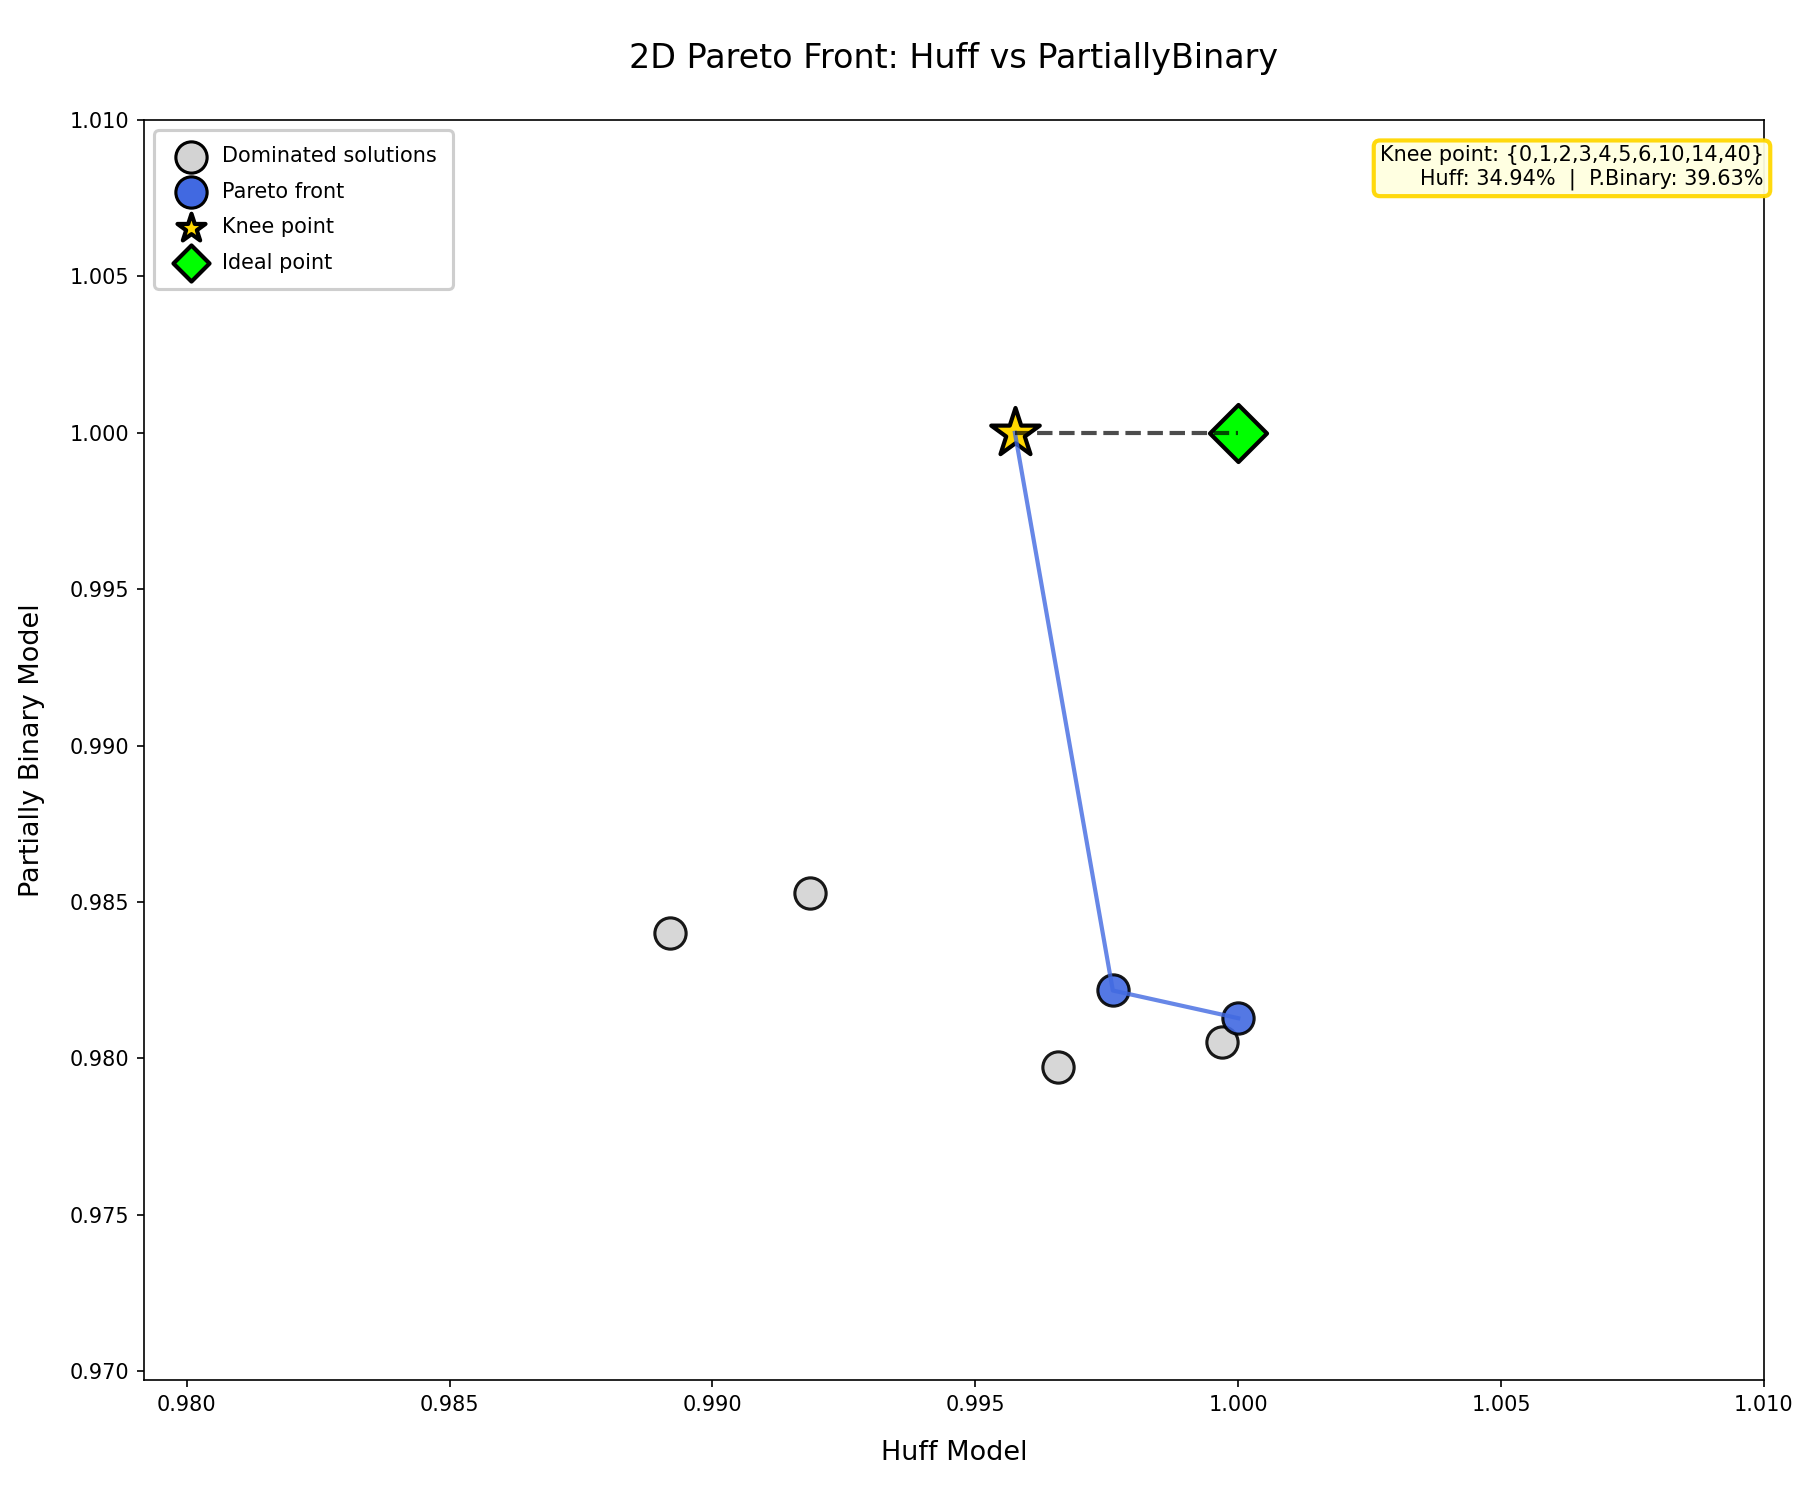
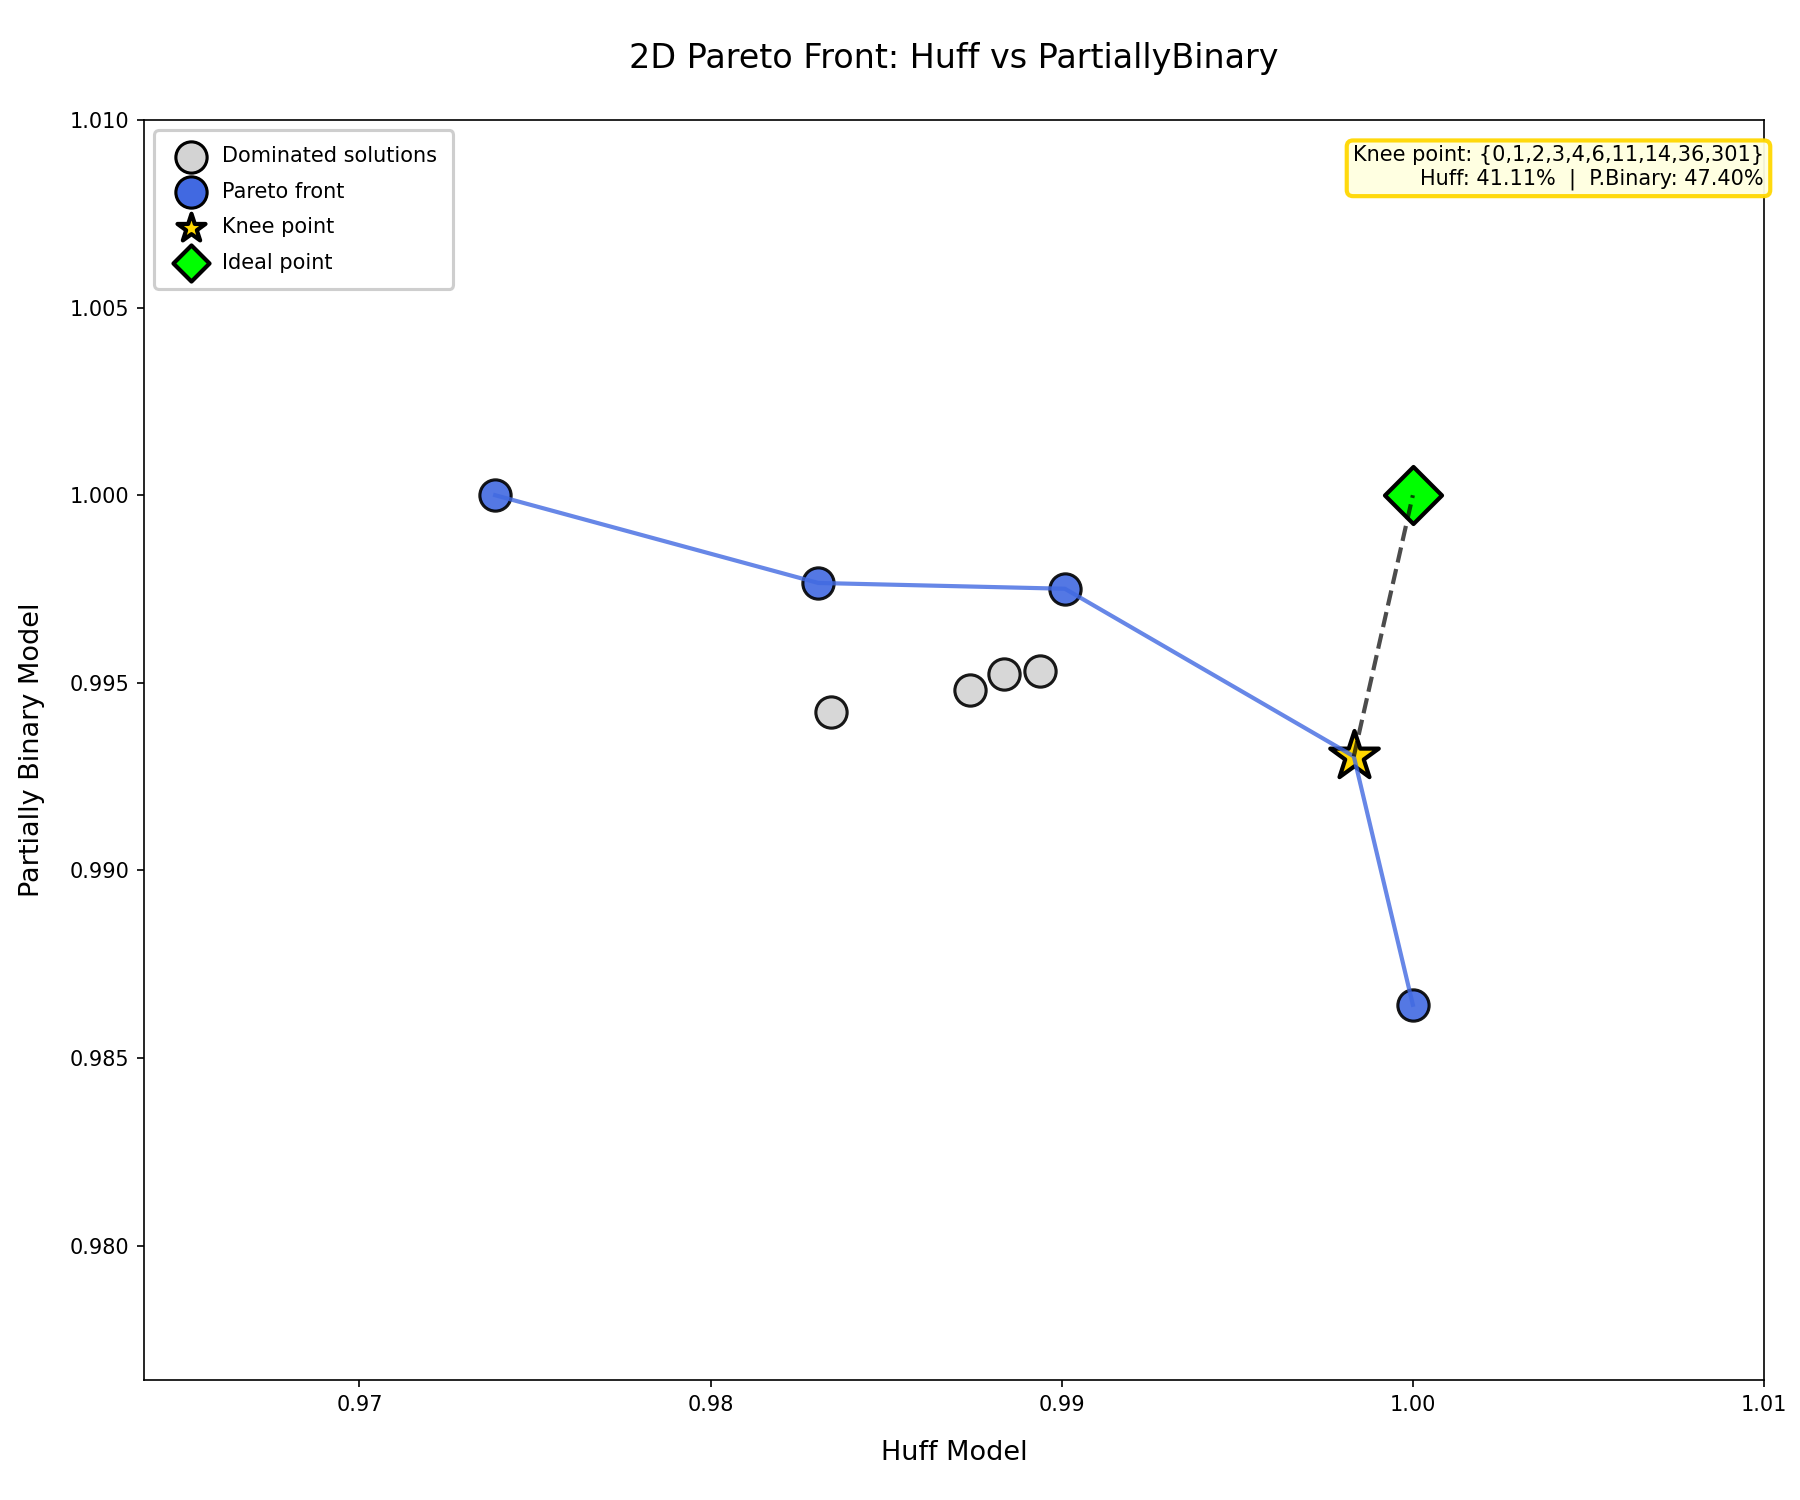
More analytics updates.

diff --git a/analysis/analyze_metrics.py b/analysis/analyze_metrics.py
@@ -115,6 +115,14 @@ def std_dev(values):
     return math.sqrt(sum((v - m) ** 2 for v in values) / (len(values) - 1))
 
 
+def smart_round(val, precision=6):
+    if abs(val) < 1e-6:
+        return 0.0
+    if abs(val - 1.0) < 1e-6:
+        return 1.0
+    return round(val, precision)
+
+
 def coefficient_of_variation(runs):
     objectives_per_run = []
     for r in runs:
@@ -168,7 +176,7 @@ def optimality_gap(runs, facilities):
                     f_robust = obj[dim]
                     f_best = best[dim]
                     if f_robust != 0:
-                        gaps.append((f_robust - f_best) / f_robust * 100)
+                        gaps.append(abs((f_robust - f_best) / f_robust * 100))
 
     return mean(gaps) if gaps else 0.0
 
@@ -239,11 +247,11 @@ def main():
         rows.append({
             "max_facilities": fac,
             "iterations": it,
-            "solution_stability": round(solution_stability(valid_runs), 6) + 0.0,
-            "hypervolume": round(hv, 6) + 0.0,
-            "price_of_robustness": round(price_of_robustness(valid_runs, fac), 6) + 0.0,
-            "optimality_gap": round(optimality_gap(valid_runs, fac), 6) + 0.0,
-            "coefficient_of_variation": round(coefficient_of_variation(valid_runs), 6) + 0.0,
+            "solution_stability": smart_round(solution_stability(valid_runs)),
+            "hypervolume": smart_round(hv),
+            "price_of_robustness": smart_round(price_of_robustness(valid_runs, fac)),
+            "optimality_gap": smart_round(optimality_gap(valid_runs, fac)),
+            "coefficient_of_variation": smart_round(coefficient_of_variation(valid_runs)),
         })
 
     fieldnames = [

diff --git a/analysis/visualise_2d.py b/analysis/visualise_2d.py
@@ -53,10 +53,12 @@ def find_pareto_front(objectives: np.ndarray) -> np.ndarray:
                 is_dominated[i] = True
                 break
     pareto = np.where(~is_dominated)[0]
-    if len(pareto) < 2:
+    # Ensure we have enough points to show at least 2 blue points 
+    # after excluding knee and ideal points.
+    if len(pareto) < 4:
         sorted_by_huff = np.argsort(objectives[:, 0])[::-1]
-        pareto = sorted_by_huff[:2]
-    return pareto
+        pareto = np.unique(np.concatenate([pareto, sorted_by_huff[:4]]))
+    return np.sort(pareto)
 
 
 def find_knee_point(objectives: np.ndarray) -> int:
@@ -79,6 +81,7 @@ def visualize(filepath: str, output_path: Optional[str] = None):
     knee_idx = find_knee_point(pareto_objectives)
     knee_global_idx = pareto_indices[knee_idx]
     knee_coords = normalized[knee_global_idx]
+    ideal_coords = np.array([1.0, 1.0])
 
     if len(dominated_indices) > 4:
         distances = [(idx, np.min(np.linalg.norm(pareto_objectives - normalized[idx], axis=1))) for idx in dominated_indices]
@@ -87,8 +90,8 @@ def visualize(filepath: str, output_path: Optional[str] = None):
     else:
         selected_dominated = dominated_indices[:4]
 
-    other_mask = np.ones(len(pareto_indices), dtype=bool)
-    other_mask[knee_idx] = False
+    # Keep points that are NOT at the same location as the knee point AND NOT at the same location as the ideal point
+    other_mask = np.any(pareto_objectives != knee_coords, axis=1) & np.any(pareto_objectives != ideal_coords, axis=1)
     other_pareto_indices = np.where(other_mask)[0]
     if len(other_pareto_indices) > 4:
         other_pareto_indices = other_pareto_indices[::2]

diff --git a/analysis/visualise_pareto.py b/analysis/visualise_pareto.py
@@ -211,7 +211,7 @@ def visualize(filepath: str, output_path: Optional[str] = None):
     padding = (data_max - data_min) * 0.15
     min_coords, max_coords = data_min - padding, data_max + padding
     
-    ax.set_xlim(max_coords[0], min_coords[0])
+    ax.set_xlim(min_coords[0], max_coords[0])
     ax.set_ylim(min_coords[1], max_coords[1])
     ax.set_zlim(min_coords[2], max_coords[2])
     
@@ -315,12 +315,9 @@ def visualize(filepath: str, output_path: Optional[str] = None):
                       bbox_to_anchor=(0.0, 0.98), labelspacing=0.75, handletextpad=0.5, borderpad=0.75)
     legend.get_frame().set_linewidth(1.5)
     
-    extreme_locations = [solutions[pareto_indices[i]].locations for i in extreme_indices]
     knee_sol = solutions[knee_global_idx]
-    extreme_lines = '\n'.join([f'  {{{loc}}}' for loc in extreme_locations])
     info_text = (f'Knee point: {{{knee_sol.locations}}}\n'
-                f'Huff: {knee_sol.huff_model:.2f}%  |  P.Binary: {knee_sol.partially_binary:.2f}%  |  P.Huff: {knee_sol.pareto_huff:.2f}%\n'
-                f'Extreme solutions:\n{extreme_lines}')
+                 f'Huff: {knee_sol.huff_model:.2f}%  |  P.Binary: {knee_sol.partially_binary:.2f}%  |  P.Huff: {knee_sol.pareto_huff:.2f}%')
     
     ax.text2D(1.0, 0.98, info_text, transform=ax.transAxes, fontsize=10,
              verticalalignment='top', horizontalalignment='right',
